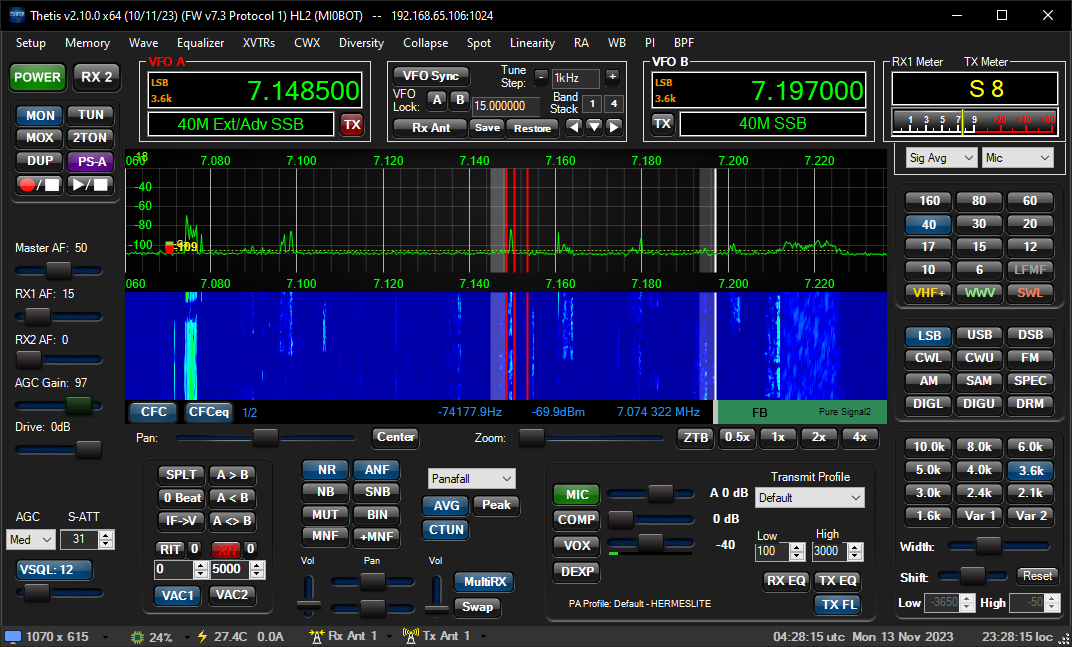
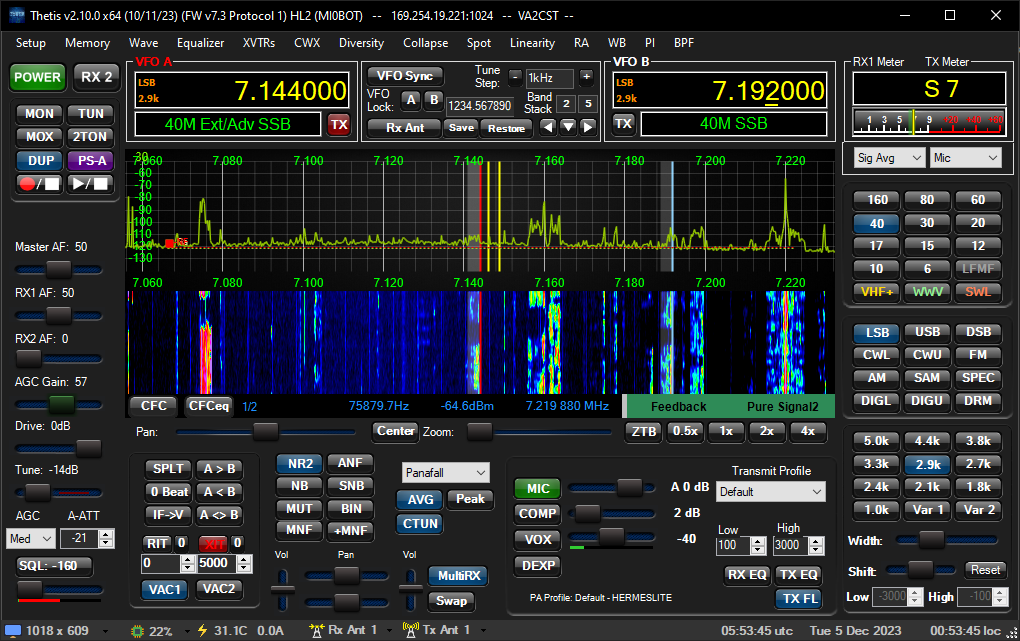
Demo pic
Updated demo picture with tune slider.

diff --git a/README.md b/README.md
@@ -1,10 +1,12 @@
 # VA2CST-Dark-Glass
  
- Skin for OpenHPSDR-Thetis SDR software. 2023-12-04-01.
- * Added Tune slider bar and button was missing.
- 
- Skin for OpenHPSDR-Thetis SDR software. 2023-12-04-00.
- * Initial commit.
+ Skin for OpenHPSDR-Thetis SDR software.
+
+ * 2023-12-05-00. Modified the demo screen picture with tune slider. 
+
+ * 2023-12-04-01. Added Tune slider bar and button was missing.
+  
+ * 2023-12-04-00. Initial commit.
 
  To download, click the "Code" button and select "Download ZIP"
  from https://github.com/Aleziss/OpenHPSDR-Thetis-Skins.
